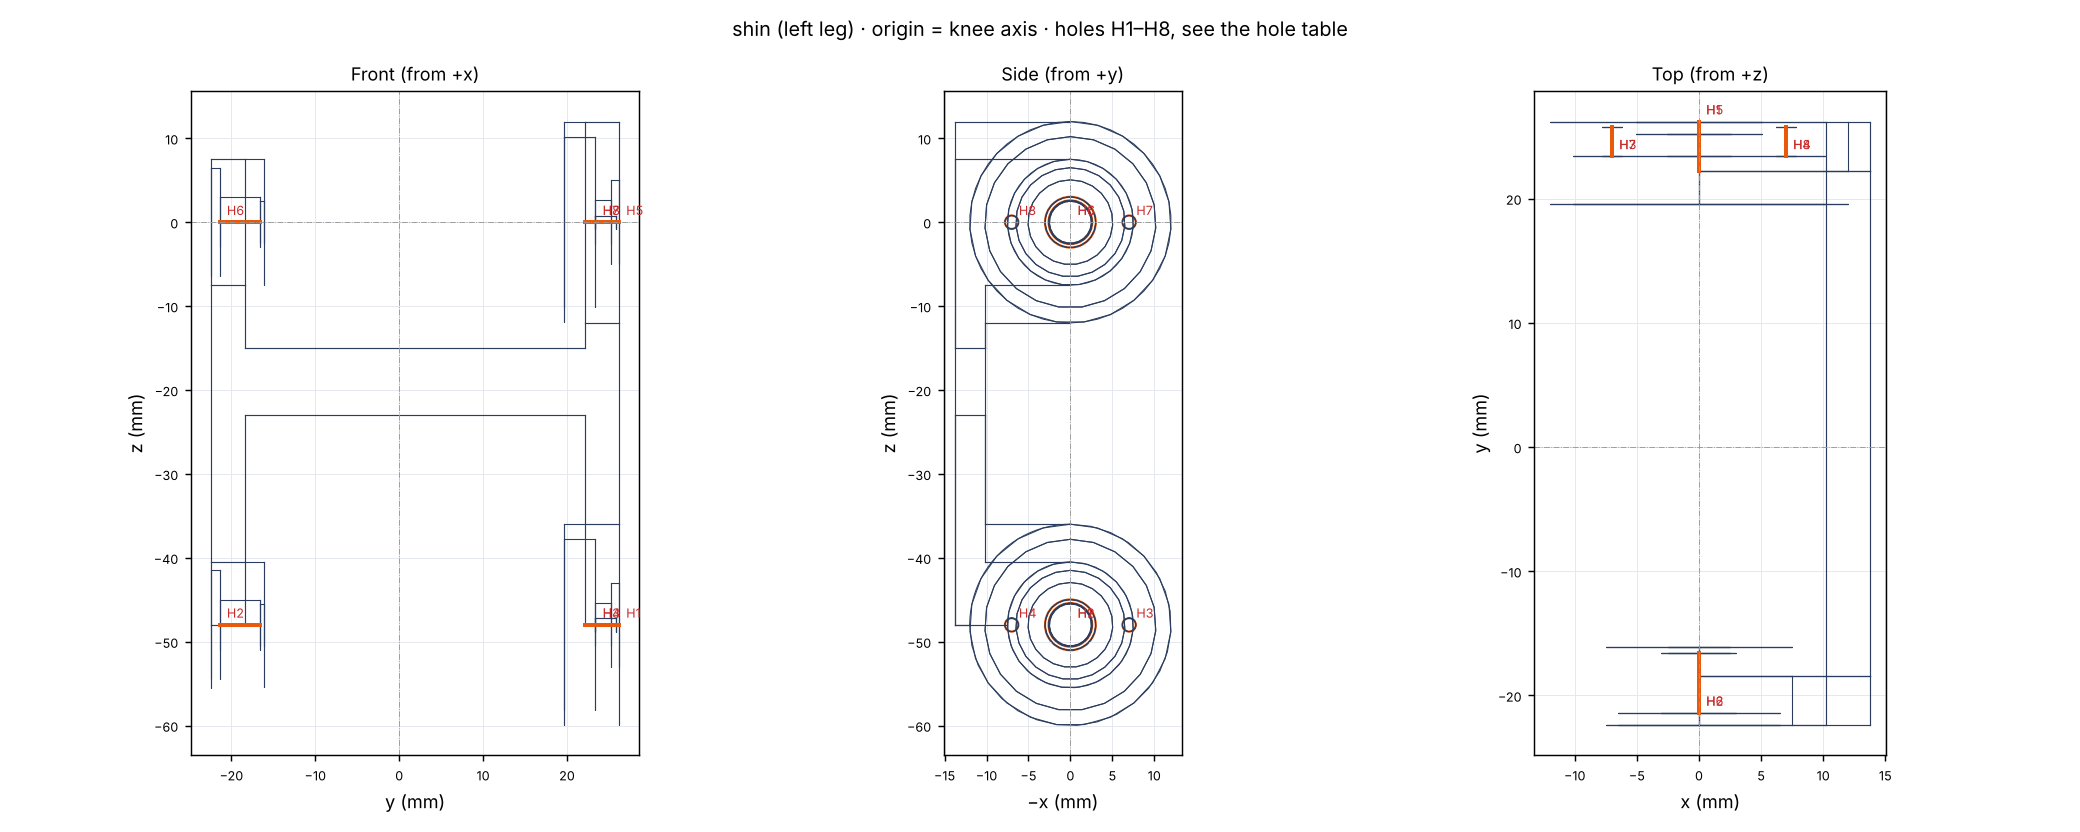
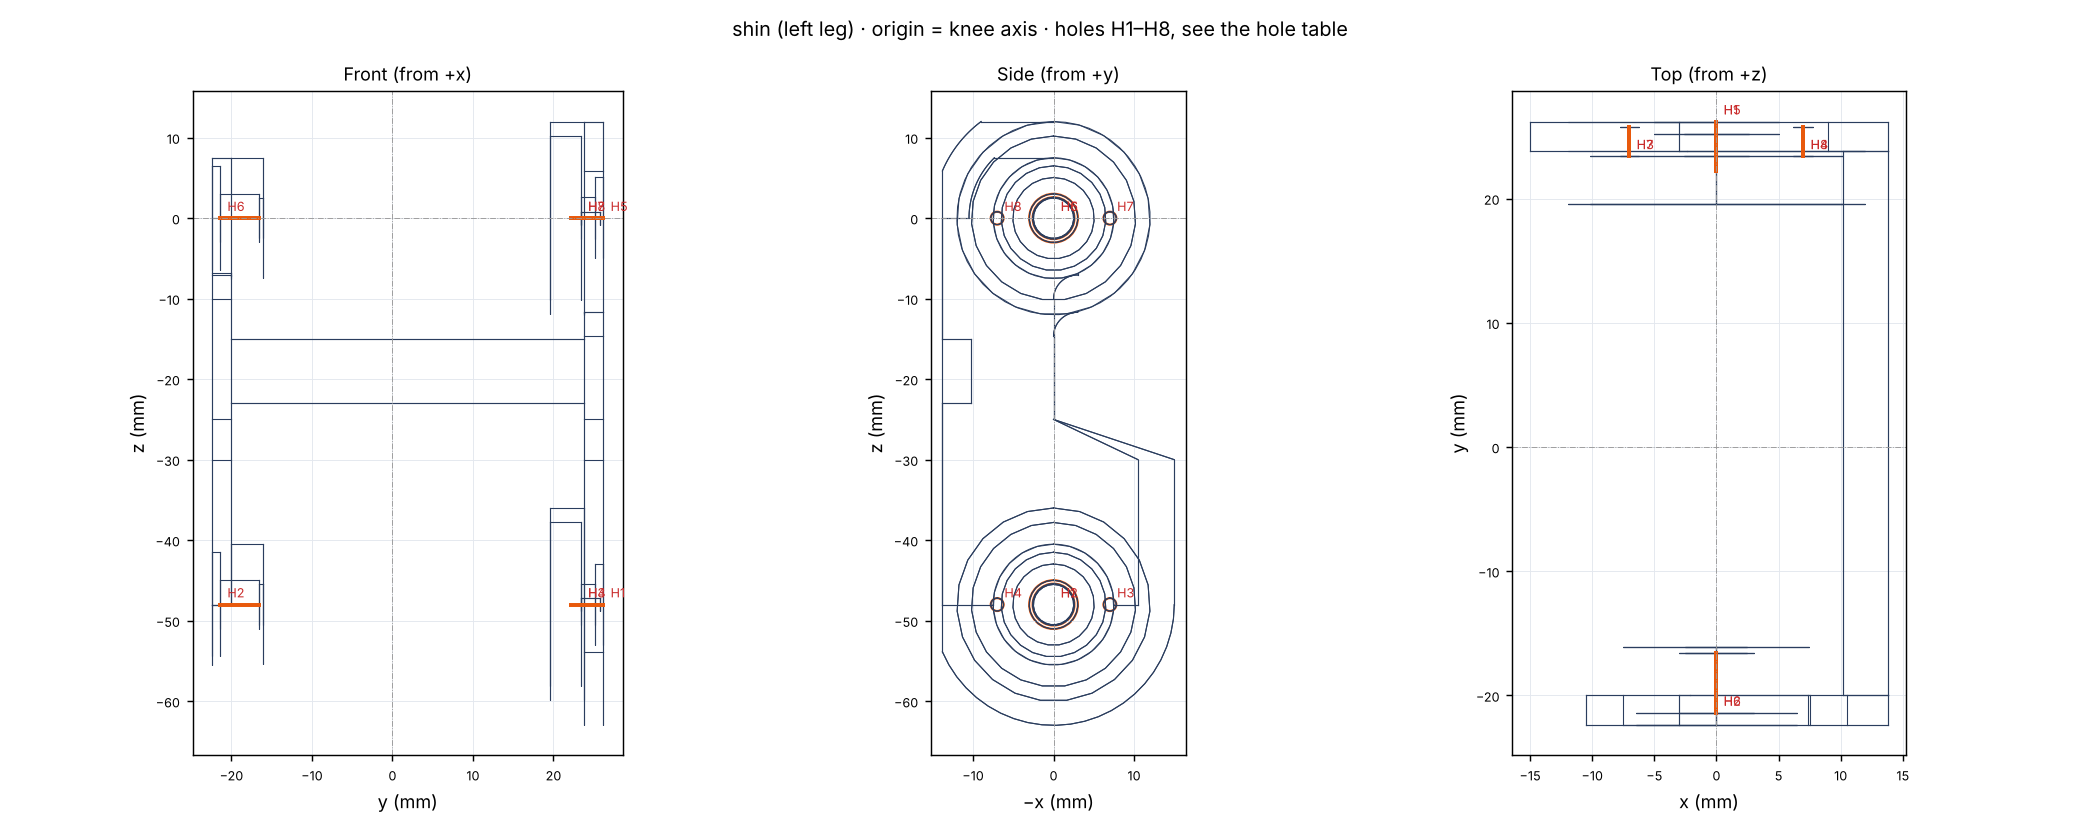
docs(mechanical): regenerate the leg guide and shin drawing for the closed shin

diff --git a/docs/mechanical/leg_v3.md b/docs/mechanical/leg_v3.md
@@ -53,13 +53,13 @@ Printed parts:
 | `foot` | PLA | 12.1 | 15.1 | sole plate down; uprights vertical | [drawing](drawings/foot.png) |
 | `sole` | TPU 95A | 8.5 | 10.3 | flat, 3 walls, 30 % gyroid | [drawing](drawings/sole.png) |
 | `ankle_block` | PLA | 9.8 | 12.1 | as the hip block: −y face down | [drawing](drawings/ankle_block.png) |
-| `shin` | PLA | 8.2 | 10.2 | lying on its −y side: all four plate holes print round | [drawing](drawings/shin.png) |
+| `shin` | PLA | 9.9 | 12.3 | lying on its −y side: all four plate holes print round | [drawing](drawings/shin.png) |
 | `thigh` | PLA | 14.6 | 18.1 | lying on its −y side (idler plate down): both bearing seats print as round holes | [drawing](drawings/thigh.png) |
 | `hip_block` | PLA | 9.8 | 12.1 | idler wall of the hip pitch pocket (−y face) down; no supports inside the pockets | [drawing](drawings/hip_block.png) |
 | `yaw_bracket` | PLA | 12.4 | 15.4 | top plate down on the bed; supports only under the roll horn recess | [drawing](drawings/yaw_bracket.png) |
 | `thrust_ring` | PLA | 3.9 | 4.8 | thrust face down on the bed (smooth face against the yaw bracket) | [drawing](drawings/thrust_ring.png) |
 | `hip_mount` | PLA | 10.5 | 13.0 | top flange down on the bed: the yaw pocket opens upward, no supports | [drawing](drawings/hip_mount.png) |
-| **Total** | | 89.9 | **111.2** | upper bound: printed at 4 walls, 40 % infill they come out about 30 % lighter | |
+| **Total** | | 91.5 | **113.3** | upper bound: printed at 4 walls, 40 % infill they come out about 30 % lighter | |
 
 Bought parts (servos: 5 × MG92B and the hip-yaw MG90S, which sits in `hip_mount`):
 
